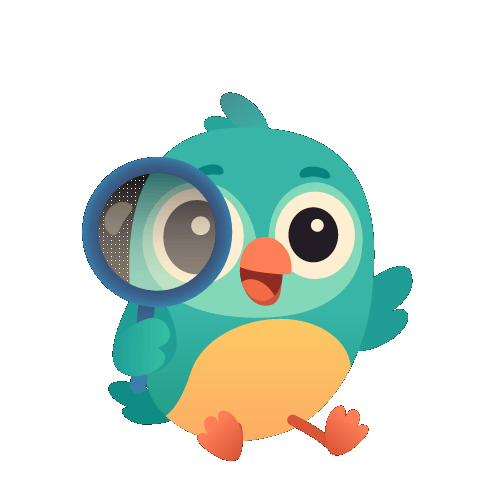
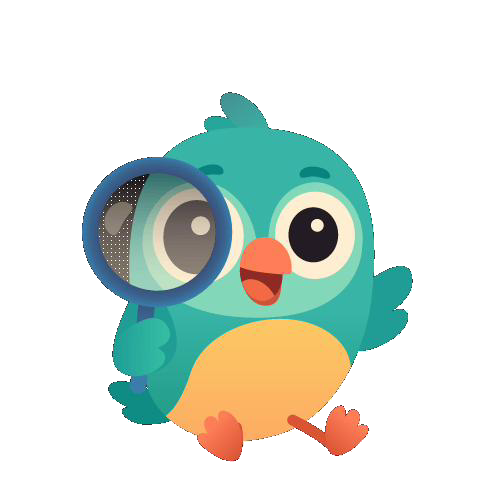
Make Swifty transparent; rename app to Welcome Genius
The four supplied PNG assets were actually JPEGs with a .png extension
(magic ff d8 ff e0). JPEG has no alpha channel, which is why Swifty sat in a
white box. Decoded them and re-encoded as genuine RGBA PNGs with the flat
white studio background keyed out.

Method: flood fill inward from the border through near-white pixels, so the
fill cannot reach Swifty's enclosed light areas (eye whites, cream belly) —
those are ringed by dark outline. Alpha is binary rather than feathered:
dividing the white matte back out amplified JPEG ringing into black speckle,
and leaving the band partly opaque left a pale halo against dark backgrounds.
The assets display at ~192px from 504-1036px sources, so the browser's
downscale supplies anti-aliasing. Orphan ringing debris near the base ellipse
is despeckled by connected-component size, then the pale fringe is peeled.
Swifty's own pixels are never repainted — only alpha is assigned.

Verified by compositing over the indigo gradient and zooming 3x on the eyes
and belly: no holes, no speckle, no halo.

Rename is user-facing only (splash title, document title, package name). The
mascot is still Swifty and public/swifty/ paths are unchanged.

diff --git a/src/App.tsx b/src/App.tsx
@@ -7,14 +7,17 @@
 export default function App() {
   return (
     <main className="flex min-h-dvh flex-col items-center justify-center bg-cg-splash px-6 py-12 text-center">
+      {/* The canvas is larger than Swifty himself now that the former white
+          matte is transparent padding, so a 192/224px canvas lands the mascot
+          at roughly 159/189px — inside §8's 140-200px range. */}
       <img
         src="/swifty/swifty-welcome.png"
         alt="Swifty, the ConveGenius mascot, with wings spread in welcome"
-        className="w-40 max-w-full sm:w-48"
+        className="w-48 max-w-full sm:w-56"
       />
 
       <h1 className="mt-8 font-display text-4xl font-bold tracking-tight text-cg-white sm:text-5xl">
-        Swifty<span className="text-cg-teal">Start</span>
+        Welcome <span className="text-cg-teal">Genius</span>
       </h1>
 
       <p className="mt-3 max-w-xs text-base text-cg-lilac sm:max-w-sm sm:text-lg">

diff --git a/index.html b/index.html
@@ -4,7 +4,7 @@
     <meta charset="UTF-8" />
     <meta name="viewport" content="width=device-width, initial-scale=1.0" />
     <meta name="theme-color" content="#4B45A8" />
-    <title>SwiftyStart · ConveGenius Induction</title>
+    <title>Welcome Genius · ConveGenius Induction</title>
   </head>
   <body>
     <div id="root"></div>
